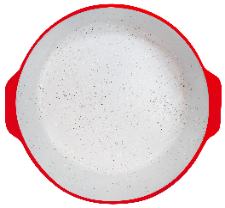
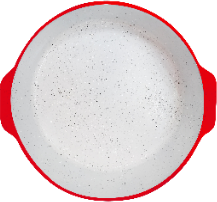
Consertado o espaçamento

diff --git a/src/secoes.py b/src/secoes.py
@@ -11,11 +11,10 @@ class Secao(ABC):
         self.pct_largura_alvo = pct_largura_alvo
 
     def buscar_melhor_combinacao_vertical(self, catalogo, altura_maxima, espaco):
-        """Busca combinações verticais maximizando a altura usada."""
+        """Busca combinações verticais maximizando a altura usada de forma precisa."""
         catalogo_isolado = copy.deepcopy(catalogo)
-        print("Catálogo Utilizado:")
-        print(catalogo_isolado)
         itens_por_largura = {}
+
         for item in catalogo_isolado:
             w, h = item["w"], item["h"]
             if w not in itens_por_largura:
@@ -31,41 +30,39 @@ class Secao(ABC):
         melhores_torres = []
 
         for lw, itens_disponiveis in itens_por_largura.items():
-            # itens_disponiveis contém os tipos únicos de cubas daquela largura (ex: M, Meio, P)
-            melhor_soma = 0
+            melhor_soma = 0.0
             melhor_combinacao = []
-            maior_peca_da_comb = 0
+            maior_peca_da_comb = 0.0
 
             def encontrar_comb(soma_atual, comb_atual):
                 nonlocal melhor_soma, melhor_combinacao, maior_peca_da_comb
 
                 qtd_gaps = len(comb_atual) - 1
                 custo_espaco = max(0, qtd_gaps * espaco)
-                total_com_espaco = soma_atual + custo_espaco
+                total_com_espaco = round(soma_atual + custo_espaco, 2)
 
-                # Se estourar a altura do balcão (95cm), interrompe esta ramificação
                 if total_com_espaco > altura_maxima:
                     return
 
-                peca_max_atual = max([x["h"] for x in comb_atual]) if comb_atual else 0
+                peca_max_atual = (
+                    max([x["h"] for x in comb_atual]) if comb_atual else 0.0
+                )
 
-                # Verifica se esta combinação é melhor do que a encontrada anteriormente
+                # CORREÇÃO: Tolerância de float ajustada com round nas comparações
                 if (total_com_espaco > melhor_soma) or (
-                    abs(total_com_espaco - melhor_soma) < 0.1
+                    abs(round(total_com_espaco - melhor_soma, 2)) < 0.01
                     and peca_max_atual > maior_peca_da_comb
                 ):
                     melhor_soma = total_com_espaco
                     melhor_combinacao = list(comb_atual)
                     maior_peca_da_comb = peca_max_atual
 
-                # PERMISSÃO DE STOCK INFINITO: Sempre varre TODOS os tipos disponíveis
-                # permitindo acumular múltiplas cubas do mesmo tamanho (ex: 3 Cubas P)
                 for item in itens_disponiveis:
                     comb_atual.append(item)
                     encontrar_comb(soma_atual + item["h"], comb_atual)
                     comb_atual.pop()
 
-            encontrar_comb(0, [])
+            encontrar_comb(0.0, [])
             if melhor_combinacao:
                 melhores_torres.append(
                     {
@@ -78,8 +75,6 @@ class Secao(ABC):
         melhores_torres = sorted(
             melhores_torres, key=lambda x: x["aproveitamento"], reverse=True
         )
-        print("Melhores torres calculadas")
-        print(melhores_torres)
         return melhores_torres
 
     def buscar_torres_gulosas(self, catalogo, altura_maxima, espaco):
@@ -109,12 +104,13 @@ class Secao(ABC):
             itens_da_torre = []
             altura_ocupada = 0.0
 
-            # LÓGICA GULOSA:
-            # Tenta a maior peça. Se couber, repete. Se não, vai pra próxima.
             for item in itens_disponiveis:
                 while True:
-                    espaco_extra = espaco if itens_da_torre else 0
-                    altura_projetada = altura_ocupada + espaco_extra + item["h"]
+                    espaco_extra = espaco if itens_da_torre else 0.0
+                    # CORREÇÃO: Aplica round direto na projeção da soma
+                    altura_projetada = round(
+                        altura_ocupada + espaco_extra + item["h"], 2
+                    )
 
                     if altura_projetada <= altura_maxima:
                         itens_da_torre.append(item)
@@ -134,8 +130,6 @@ class Secao(ABC):
         torres_gulosas = sorted(
             torres_gulosas, key=lambda x: x["aproveitamento"], reverse=True
         )
-
-        print(f"Torres gulosas calculadas para a seção: {self.nome}")
         return torres_gulosas
 
     @abstractmethod
@@ -491,7 +485,7 @@ class SecaoPanelasRedondasComGaps(Secao):
                 )
 
                 if engine.cabe(x_atual, y_atual, melhor_diametro, melhor_diametro) and (
-                    x_atual + melhor_diametro <= x_max
+                    round(x_atual + melhor_diametro, 2) <= round(x_max, 2)
                 ):
                     itens_da_coluna.append(
                         {
@@ -503,15 +497,17 @@ class SecaoPanelasRedondasComGaps(Secao):
                             "formato": "circulo",
                         }
                     )
-                    y_atual += melhor_diametro + engine.espaco
+                    y_atual = round(y_atual + melhor_diametro + engine.espaco, 2)
                 else:
                     break
 
             if itens_da_coluna:
                 engine.itens.extend(itens_da_coluna)
                 alocadas += len(itens_da_coluna)
-                x_atual += melhor_diametro + engine.espaco
+                # Avança a coluna X somando o diâmetro + o espaço configurado
+                x_atual = round(x_atual + melhor_diametro + engine.espaco, 2)
             else:
+                # Se não coube nesta coordenada X, pula para o próximo ponto disponível calculado pela engine
                 passos_x = sorted(
                     list(
                         set(

diff --git a/src/engine.py b/src/engine.py
@@ -30,24 +30,30 @@ class LayoutEngine:
     def alocar_na_secao(
         self, nome, w, h, x_min, x_max, formato="retangulo", rotacionar=False
     ):
-        """Heurística Bottom-Left dentro de uma zona específica."""
+        """Heurística Bottom-Left dentro de uma zona específica com tratamento de espaçamento corrigido."""
         x_max = min(x_max, self.L)
 
-        passos_x = [x_min] + [
-            i["x"] + i["w"] + self.espaco for i in self.itens if i["x"] >= x_min
-        ]
-        passos_y = [0.0] + [i["y"] + i["h"] + self.espaco for i in self.itens]
+        passos_x = [x_min]
+        for i in self.itens:
+            ponto_dir = round(i["x"] + i["w"] + self.espaco, 2)
+            if x_min <= ponto_dir <= x_max:
+                passos_x.append(ponto_dir)
 
-        passos_x = sorted(list(set([round(p, 2) for p in passos_x])))
-        passos_y = sorted(list(set([round(p, 2) for p in passos_y])))
+        passos_y = [0.0]
+        for i in self.itens:
+            ponto_sup = round(i["y"] + i["h"] + self.espaco, 2)
+            if ponto_sup <= self.P:
+                passos_y.append(ponto_sup)
+
+        passos_x = sorted(list(set(passos_x)))
+        passos_y = sorted(list(set(passos_y)))
 
         for px in passos_x:
             if px + w > x_max and (not rotacionar or px + h > x_max):
                 continue
 
             for py in passos_y:
-                # 1. Tenta a orientação original
-                if px + w <= x_max and self.cabe(px, py, w, h):
+                if round(px + w, 2) <= x_max and self.cabe(px, py, w, h):
                     self.itens.append(
                         {
                             "nome": nome,
@@ -60,9 +66,8 @@ class LayoutEngine:
                     )
                     return True
 
-                # 2. Tenta rotacionada (se permitido pelo catálogo)
                 if rotacionar and formato == "retangulo":
-                    if px + h <= x_max and self.cabe(px, py, h, w):
+                    if round(px + h, 2) <= x_max and self.cabe(px, py, h, w):
                         self.itens.append(
                             {
                                 "nome": nome,
@@ -77,27 +82,30 @@ class LayoutEngine:
         return False
 
     def alocar_torre_na_secao(self, torre, x_min, x_max):
-        """
-        Tenta alocar uma estrutura de torre vertical completa em um passo X estável.
-        Garante que todos os elementos da combinação entrem juntos.
-        """
+        """Tenta alocar uma estrutura de torre vertical completa respeitando espaçamentos de seções adjacentes."""
         x_max = min(x_max, self.L)
         w_torre = torre["largura"]
 
-        passos_x = [x_min] + [
-            i["x"] + i["w"] + self.espaco for i in self.itens if i["x"] >= x_min
-        ]
-        passos_y = [0.0] + [i["y"] + i["h"] + self.espaco for i in self.itens]
+        passos_x = [x_min]
+        for i in self.itens:
+            ponto_dir = round(i["x"] + i["w"] + self.espaco, 2)
+            if x_min <= ponto_dir <= x_max:
+                passos_x.append(ponto_dir)
 
-        passos_x = sorted(list(set([round(p, 2) for p in passos_x])))
-        passos_y = sorted(list(set([round(p, 2) for p in passos_y])))
+        passos_y = [0.0]
+        for i in self.itens:
+            ponto_sup = round(i["y"] + i["h"] + self.espaco, 2)
+            if ponto_sup <= self.P:
+                passos_y.append(ponto_sup)
+
+        passos_x = sorted(list(set(passos_x)))
+        passos_y = sorted(list(set(passos_y)))
 
         for px in passos_x:
             if px + w_torre > x_max:
                 continue
 
             for py in passos_y:
-                # Verifica se a torre inteira cabe verticalmente a partir deste ponto Y
                 y_atual = py
                 torre_cabe = True
                 itens_temporarios = []
@@ -114,15 +122,13 @@ class LayoutEngine:
                                 "formato": "retangulo",
                             }
                         )
-                        y_atual += item["h"] + self.espaco
+                        y_atual = round(y_atual + item["h"] + self.espaco, 2)
                     else:
                         torre_cabe = False
                         break
 
                 if torre_cabe:
-                    # Se o conjunto completo passou no teste, consolida no balcão
-                    print("Itens que couberam:")
-                    print(itens_temporarios)
+                    print(f"Torre acoplada com sucesso em X:{px} Y:{py}!")
                     self.itens.extend(itens_temporarios)
                     return True
         return False

diff --git a/src/app.py b/src/app.py
@@ -72,9 +72,14 @@ def construir_pipeline_desde_json(json_config, pedido):
     conf_balcao = json_config["configuracao_balcao"]
 
     cat_completo_global = carregar_catalogo_por_nome("catalogo_mestre")
+    espacamento_ui = conf_balcao.get("espaco", 0.5)
+    print(f"Espaçamento UI: {espacamento_ui}")
 
     modulo = pedido.adicionar_modulo(
-        tipo_rampa="quente", largura=conf_balcao["L"], profundidade=conf_balcao["P"]
+        tipo_rampa="quente",
+        largura=conf_balcao["L"],
+        profundidade=conf_balcao["P"],
+        espacamento_cm=float(espacamento_ui),
     )
 
     for config_secao in json_config["pipeline_secoes"]:
